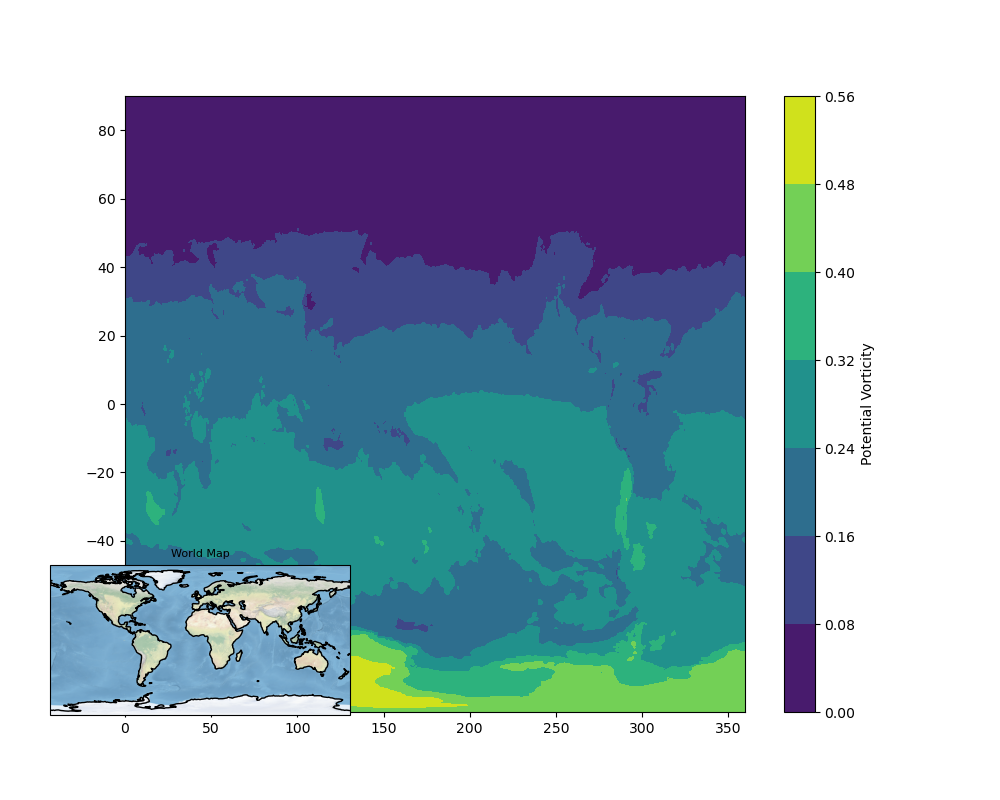
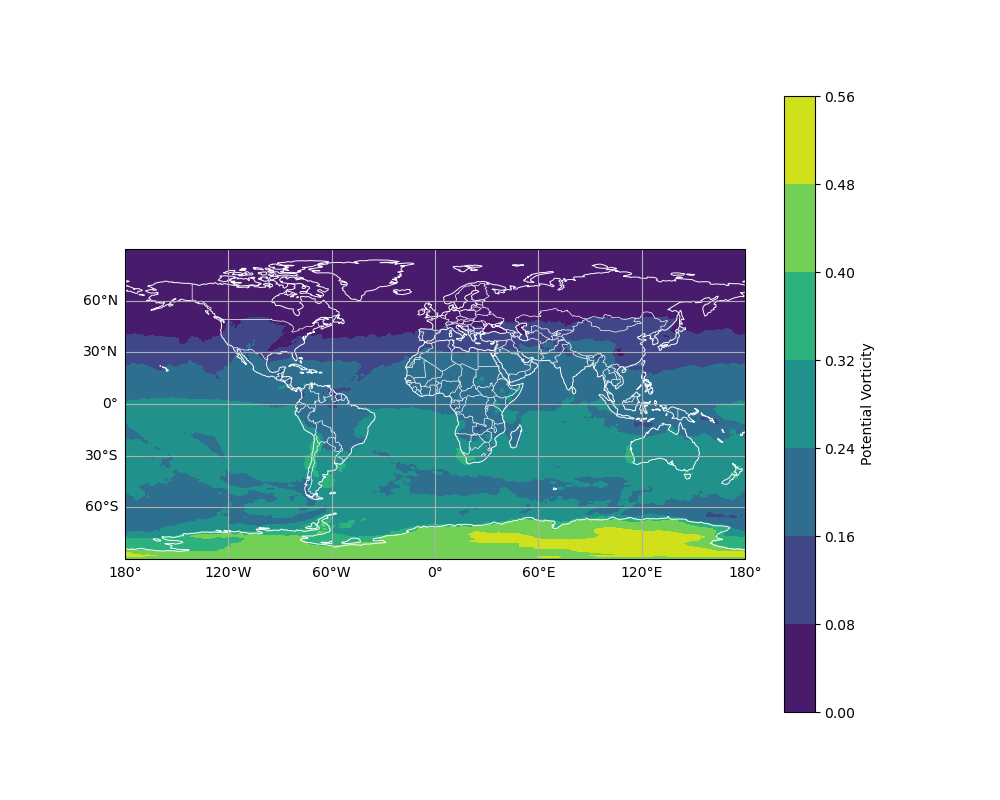
add yearly data file

diff --git a/analysis/main.py b/analysis/main.py
@@ -8,6 +8,7 @@ import core as core
 import cartopy.feature as cfeature
 import argparse
 import warnings
+import fetch_yearly_data
 
 warnings.filterwarnings("ignore")
 
@@ -66,16 +67,20 @@ nlon = 1440;
 
 #new_data = True  # if you want to save time fetching the data, set this to false
 
+"""
 if args.new_data:
-    ds2=xr.open_mfdataset(path+"era5-1950-01.nc", chunks={"valid_time":1e5} )
+    ds2=xr.open_mfdataset(path+"era5-1950-*.nc", chunks={"valid_time":1e5} )
     ds2["wspd"] = core.windspeed(ds2)
     ds2["pvpot2"] = core.pv_pot(ds2).groupby(ds2.valid_time.dt.month).mean("valid_time").compute()
     # pvpot2 = core.pv_pot(ds2).groupby(ds2.valid_time.dt.month).mean("valid_time").compute()
-    ds2[["pvpot2", "wspd", "longitude", "latitude"]].to_netcdf("complete_data.nc")
+    ds2[["pvpot2", "longitude", "latitude"]].to_netcdf("yera5-1950.nc")
     
 
 else:
     ds2 = xr.open_dataset("complete_data.nc")
+
+"""
+ds2=fetch_yearly_data.get_filelists(years,new_data=args.new_data)
 
 fig, ax = plt.subplots(figsize=(10, 8), subplot_kw={'projection': ccrs.PlateCarree()})
 

diff --git a/analysis/fetch_yearly_data.py b/analysis/fetch_yearly_data.py
@@ -1,0 +1,20 @@
+import xarray as xr
+import numpy as np
+from pathlib import Path
+from multiprocessing import Process, Queue
+import argparse
+import warnings
+import core as core
+
+path="../../LEHRE/msc-intro-comp-met-ex-w2024/data/era5/"
+def get_filelists(years,new_data):
+    if new_data:
+        for year in years:
+            ds2=xr.open_mfdataset(path+"era5-"+year+"-*.nc", chunks={"valid_time":1e5} )
+            ds2["wspd"] = core.windspeed(ds2)
+            ds2["pvpot2"] = core.pv_pot(ds2).groupby(ds2.valid_time.dt.month).mean("valid_time").compute()
+            # pvpot2 = core.pv_pot(ds2).groupby(ds2.valid_time.dt.month).mean("valid_time").compute()
+            ds2[["pvpot2", "longitude", "latitude"]].to_netcdf("era5-"+year+".nc")
+    else:
+        ds2 = xr.open_dataset("complete_data.nc")
+    return ds2

diff --git a/README.md b/README.md
@@ -22,18 +22,23 @@ Notes for Aiko Voigt:
 
 #git pull origin main #to see the changes of the others
 
-TODO: 
-* Start with monthly climatology of pv pot 
-* Europe: to satisfy Europe's enhrgy, how much area needs to be covered by PV, and where?
-* PV pot change between 1950-1959 and 2000-2009; climate chnage singnal? 
+Projects: 
+* Start with monthly climatology of pv pot (want to do)
+* Europe: to satisfy Europe's energy, how much area needs to be covered by PV, and where?
+* PV pot change between 1950-1959 and 2000-2009; climate chnage singnal?  (want to do)
 * PV pot and extrem event (are there some correlations?)
 * If we have time: How PV pot changes, if we would have only daily data and not hourly data (calculate the mean data for one day) (could als try to do it "bachwards" with machine learning, as we have the hourly data)
 
 Next: 
-* argument for fals and true for data loading (Now for new data: python main.py --new_data)
-* PVpot for each month over one year, that we can see hoh it changes with the seasons (12 plots)
-* Ride comments ;)
-* Save data for every month and every year
-* Plot the mean 0f 1950-1959 and of 2000-2010 (2 plots)
-* Same for all four seasons (8 plots)
+* argument for false and true for data loading (Now for new data: python main.py --new_data)
+* PVpot for each month over one year, that we can see how it changes with the seasons (12 plots)-year: 2005
+      (montly 2.9 GB was big so we should take the annual mean or we try until there is no space for saving anymore)
+* Write comments ;)
+* Save data for every year-> 1950-1959 and of 2000-2010
+* -> Plot the mean of 1950-1959 and of 2000-2010 (2 plots)
+* -> Same for all four seasons (8 plots): mean over all years for the seasons
 * Continents (e.g. Antarctica)
+
+DONE:
+* plot the data with map
+* save the data in netcdf file *  
